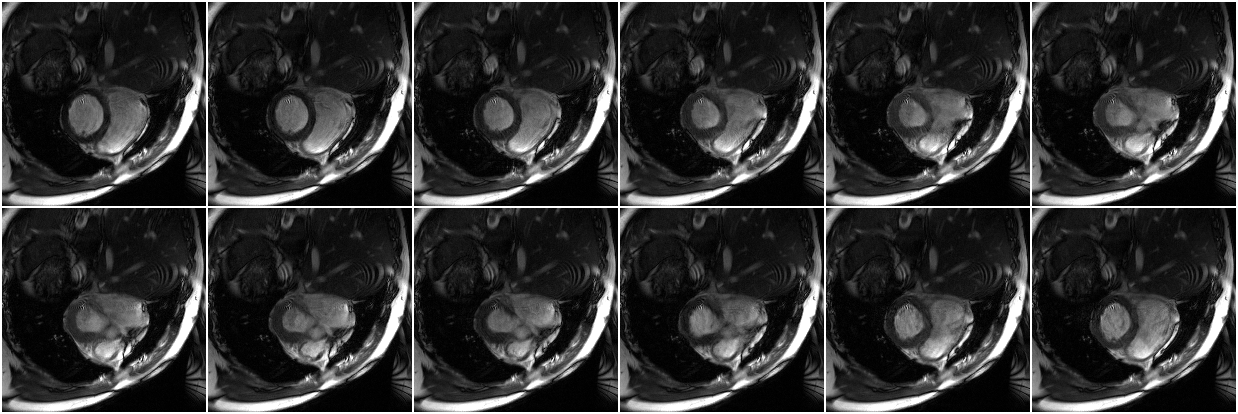
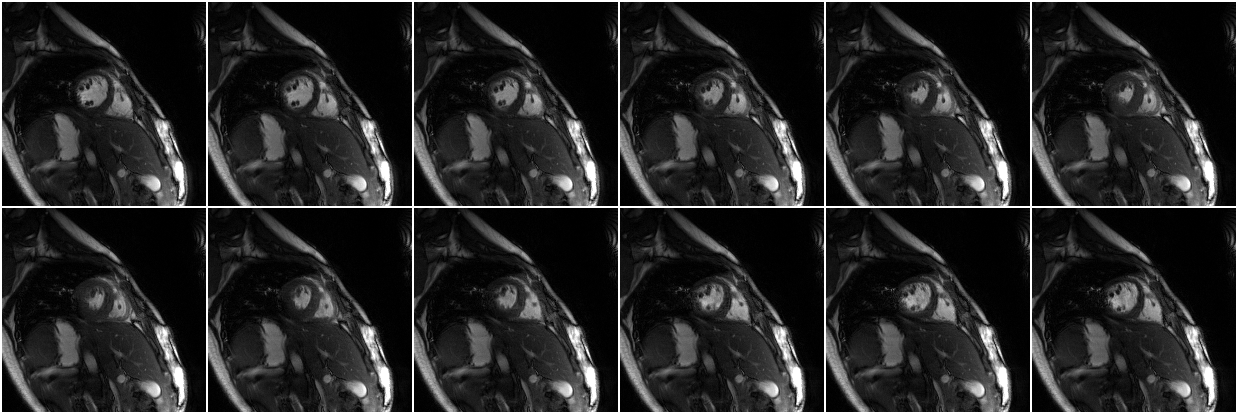
Adding nufft run and grasp run

diff --git a/main_grasp.py b/main_grasp.py
@@ -1,0 +1,180 @@
+import os
+import argparse
+import time
+import datetime
+import numpy as np
+import torch
+import h5py
+from tqdm import tqdm
+
+from torch.utils.tensorboard import SummaryWriter
+from utils import coil_combine, path_checker, visual_mag, visual_err_mag, gen_traj, NUFFT
+from scipy import io
+from CineDataset import CineDataset, CMRxReconToINRDataset
+from inr.utils import metrics_extended 
+from utils import TVLoss, coil_combine, metrics, RelL2Loss
+
+# --- Arguments for GRASP ---
+parser = argparse.ArgumentParser(description="GRASP MRI Reconstruction")
+parser.add_argument('-s', '--spokes', type=int, metavar='', required=True, help="Number of spokes per frame")
+parser.add_argument('-g', '--gpu', type=int, metavar='', required=True, help="GPU ID")
+parser.add_argument('-t', '--tv_weight', type=float, metavar='', required=False, default=0.01, help="Temporal TV penalty weight")
+parser.add_argument('-lr', '--learning_rate', type=float, metavar='', required=False, default=0.01, help="Adam learning rate")
+parser.add_argument('-i', '--iterations', type=int, metavar='', required=False, default=1000, help="Optimization iterations")
+parser.add_argument('-r', '--relL2', action='store_true', required=False)
+args = parser.parse_args()
+os.environ["CUDA_VISIBLE_DEVICES"] = str(args.gpu)
+
+params = {
+    "tv_weight": args.tv_weight,
+    "lr": args.learning_rate,
+    "iterations": args.iterations,
+    "spokes": args.spokes,
+    "relL2": args.relL2
+}
+print("GRASP Parameters:", params)
+
+# Important Constants
+GA = np.deg2rad(180 / ((1 + np.sqrt(5)) / 2))  # GoldenAngle
+device = torch.device("cuda:0" if torch.cuda.is_available() else "cpu")
+summary_epoch = 50
+spoke_num = args.spokes
+iterations = params['iterations']
+relL2_eps = 1e-4
+
+base_path = r"/synology-data/users/naamagav/CMRxRec_for_project"
+log_path = os.path.join(base_path, 'log_cmr', 'GRASP_spoke{}_{}'.format(spoke_num, str(datetime.datetime.now().strftime('%y%m%d_%H%M%S'))))
+path_checker(log_path)
+writer = SummaryWriter(log_path)
+dataset_path = os.path.join(base_path, 'ChallengeData_test', 'MultiCoil', 'Cine', 'TestSet', 'FullSample')
+cds = CineDataset(dataset_path)
+
+ds = CMRxReconToINRDataset(
+    base_dataset=cds,
+    kspace_key="kspace_full",
+    z_index=2,
+    input_order="nxnycnznt",
+    crop_square=True,
+    crop_size=204,
+    return_torch=True,
+)
+
+x = ds[1]
+# Test is on P002 in the testset 
+
+img = x['img'][:]
+smap = x['smap'][:]
+
+img = torch.as_tensor(img).to(device)
+smap = torch.as_tensor(smap).to(device)
+frames = img.shape[0]
+coil_num = img.shape[1]
+grid_size = img.shape[-1]
+spoke_length = grid_size * 2
+img_gt = coil_combine(img, smap)
+scale_factor = torch.abs(img_gt).max()
+img_gt /= scale_factor # Normalization
+
+# Generate K-Space Trajectory and Data
+ktraj = gen_traj(GA, spoke_length, frames * spoke_num).reshape(2, frames, -1).transpose(1, 0)
+dcomp = torch.abs(torch.linspace(-1, 1, spoke_length)).repeat([spoke_num, 1]).to(device)
+nufft_op = NUFFT(ktraj, dcomp, smap)
+kdata = nufft_op.forward(img_gt).reshape([frames, coil_num, spoke_num, spoke_length])
+
+# --- Build GRASP Optimization Variable ---
+# Initialize the image series as a complex tensor (optimizable parameter)
+# Starting with zeros
+# recon_img = torch.zeros((frames, 1, grid_size, grid_size), dtype=torch.complex64, device=device, requires_grad=True)
+print("Calculating Adjoint NUFFT for initialization...")
+with torch.no_grad():
+    # Get the zero-filled reconstruction to use as a starting point
+    initial_guess = nufft_op.adjoint(kdata)
+    
+    # Ensure it has the [frames, 1, H, W] shape
+    if initial_guess.dim() == 3:
+        initial_guess = initial_guess.unsqueeze(1)
+
+# Initialize the optimizable parameter with the adjoint image
+recon_img = initial_guess.clone().detach().requires_grad_(True)
+optimizer = torch.optim.Adam([recon_img], lr=params['lr'])
+DC_loss = RelL2Loss(params['relL2'], eps=relL2_eps)
+TV_loss = TVLoss()
+
+psnr = 0.0
+ssim = 0.0
+time_usage = 0.0
+best_epoch = 0
+best_intensity = None
+epoch_loop = tqdm(range(iterations), total=iterations, leave=True)
+
+for i in epoch_loop:
+    start_time = time.time()
+    optimizer.zero_grad()
+    intensity = recon_img
+
+    kdata_pred = nufft_op.forward(intensity).reshape([frames, coil_num, spoke_num, spoke_length])
+    dc_loss_val = DC_loss(kdata_pred, kdata).mean()
+
+
+    # 2. Temporal Total Variation (TV) Loss: || T(x) ||_1
+    # Absolute difference along the temporal dimension (frames)
+    tv_loss_val = (TV_loss(intensity.real) + TV_loss(intensity.imag)) / torch.abs(intensity.detach()).max()
+
+    # Total Objective
+    loss = dc_loss_val + params['tv_weight'] * tv_loss_val
+    loss.backward()
+    optimizer.step()
+
+    delta_time = time.time() - start_time
+    time_usage += delta_time
+
+    # Update Progress Bar
+    epoch_loop.set_description("[GRASP Opt] [Iter:{}/{}]".format(i + 1, iterations))
+    epoch_loop.set_postfix(total_loss=loss.item(), dc_loss=dc_loss_val.item(), tv_loss=tv_loss_val.item())
+    
+    writer.add_scalar('loss_total', loss.item(), i + 1)
+    writer.add_scalar('loss_dc', dc_loss_val.item(), i + 1)
+    writer.add_scalar('loss_tv', tv_loss_val.item(), i + 1)
+
+    # Inferring / Evaluation
+    if (i + 1) % summary_epoch == 0:
+        with torch.no_grad():
+
+            intensity_eval = recon_img.clone().detach()   
+
+            coil_img = intensity_eval * smap 
+            combined_int = coil_combine(coil_img, smap)
+            
+            # Calculate metrics
+            psnr_tmp, ssim_tmp = metrics(combined_int, img_gt)
+        
+            
+            io.savemat(log_path + '/proposed_{}.mat'.format(i+1),
+                        {'img_proposed': intensity_eval.cpu().numpy()})
+            visual_mag(intensity_eval,
+                log_path + '/proposed_{}_{}_abs_{}.png'.format(spoke_num, frames, i+1))
+            visual_err_mag(intensity_eval, img_gt, log_path + '/proposed_{}_{}_abs_err_{}.png'.format(spoke_num, frames, i+1))
+            
+            writer.add_scalar('psnr', psnr_tmp, i + 1)
+            writer.add_scalar('ssim', ssim_tmp, i + 1)
+            
+            if psnr_tmp > psnr:
+                psnr = psnr_tmp
+                ssim = ssim_tmp
+                best_intensity = intensity_eval.clone().detach()
+                best_epoch = i + 1
+
+# Summary
+print('--- Optimization Complete ---')
+print('Best PSNR: {:.4f}'.format(psnr))
+print('SSIM: {:.4f}'.format(ssim))
+print('Best Iteration: {}'.format(best_epoch))
+print('Time Consumption: {:.2f}s'.format(time_usage))
+
+if best_intensity is not None:
+    metrics_dict = metrics_extended(best_intensity, img_gt, time_usage, log_path + '/proposed_{}_{}_abs_err_metrics.txt'.format(spoke_num, frames))
+    visual_mag(best_intensity,
+    log_path + '/proposed_{}_{}_abs_{}.png'.format(spoke_num, frames, best_epoch))
+    visual_err_mag(best_intensity, img_gt, log_path + '/proposed_{}_{}_abs_err_{}.png'.format(spoke_num, frames, best_epoch))
+else:
+    print("Warning: Optimization finished without running inference/evaluation.")

diff --git a/main_nufft.py b/main_nufft.py
@@ -1,0 +1,94 @@
+import os
+import argparse
+import time
+import datetime
+import numpy as np
+import torch
+from scipy import io
+
+# Parse only the essential arguments for the naive reconstruction
+parser = argparse.ArgumentParser()
+parser.add_argument('-s', '--spokes', type=int, metavar='', required=True)
+parser.add_argument('-g', '--gpu', type=int, metavar='', required=True)
+args = parser.parse_args()
+os.environ["CUDA_VISIBLE_DEVICES"] = str(args.gpu)
+
+from utils import coil_combine, path_checker, visual_mag, visual_err_mag, gen_traj, NUFFT
+from CineDataset import CineDataset, CMRxReconToINRDataset
+from inr.utils import metrics_extended
+
+# Important Constants
+GA = np.deg2rad(180 / ((1 + np.sqrt(5)) / 2))  # GoldenAngle
+device = torch.device("cuda:0" if torch.cuda.is_available() else "cpu")
+spoke_num = args.spokes
+
+# Setup Paths
+base_path = r"/synology-data/users/naamagav/CMRxRec_for_project"
+log_path = os.path.join(base_path, 'log_cmr', 'naive_nufft_spoke{}_{}'.format(spoke_num, str(datetime.datetime.now().strftime('%y%m%d_%H%M%S'))))
+path_checker(log_path)
+
+dataset_path = os.path.join(base_path, 'ChallengeData_test', 'MultiCoil', 'Cine', 'TestSet', 'FullSample')
+cds = CineDataset(dataset_path)
+
+ds = CMRxReconToINRDataset(
+    base_dataset=cds,
+    kspace_key="kspace_full",
+    z_index=2,
+    input_order="nxnycnznt",
+    crop_square=True,
+    crop_size=204,
+    return_torch=True,
+)
+
+x = ds[1]
+# Test is on P002 in the testset 
+
+img = x['img'][:]
+smap = x['smap'][:]
+
+img = torch.as_tensor(img).to(device)
+smap = torch.as_tensor(smap).to(device)
+frames = img.shape[0]
+coil_num = img.shape[1]
+grid_size = img.shape[-1]
+spoke_length = grid_size * 2
+
+# Ground Truth & Normalization
+img_gt = coil_combine(img, smap)
+scale_factor = torch.abs(img_gt).max()
+img_gt /= scale_factor 
+
+# Generate Trajectory & NUFFT Operator
+ktraj = gen_traj(GA, spoke_length, frames * spoke_num).reshape(2, frames, -1).transpose(1, 0)
+dcomp = torch.abs(torch.linspace(-1, 1, spoke_length)).repeat([spoke_num, 1]).to(device)
+nufft_op = NUFFT(ktraj, dcomp, smap)
+
+# 1. Forward Pass (Simulate multi-coil radial k-space data)
+print("Simulating k-space data...")
+raw_kdata = nufft_op.forward(img_gt)
+
+# 2. Adjoint Pass (Naive NUFFT Reconstruction)
+print("Running naive NUFFT reconstruction...")
+start_time = time.time()
+
+recon = nufft_op.adjoint(raw_kdata)
+
+time_usage = time.time() - start_time
+print('Time Consumption: {:.2f}s'.format(time_usage))
+
+# Save output array
+io.savemat(os.path.join(log_path, 'naive_recon.mat'), {'img_naive': recon.cpu().numpy()})
+
+# Calculate Metrics & Save Visualizations
+print("Calculating metrics and saving visuals...")
+metrics_dict = metrics_extended(
+    recon, 
+    img_gt, 
+    time_usage, 
+    os.path.join(log_path, 'naive_{}_{}_abs_err_metrics.txt'.format(spoke_num, frames))
+)
+
+visual_mag(recon, os.path.join(log_path, 'naive_{}_{}_abs.png'.format(spoke_num, frames)))
+visual_err_mag(recon, img_gt, os.path.join(log_path, 'naive_{}_{}_abs_err.png'.format(spoke_num, frames)))
+
+print("Done!")

diff --git a/CineDataset.py b/CineDataset.py
@@ -287,7 +287,7 @@ class CMRxReconToINRDataset(Dataset):
 
 
 if __name__ == "__main__":
-    cds = CineDataset(r"/synology-data/users/naamagav/CMRxRec_for_project/ChallengeData/MultiCoil/Cine/TrainingSet/FullSample")
+    cds = CineDataset(r"/synology-data/users/naamagav/CMRxRec_for_project/ChallengeData_test/MultiCoil/Cine/TestSet/FullSample")
 
     ds = CMRxReconToINRDataset(
         base_dataset=cds,
@@ -299,7 +299,7 @@ if __name__ == "__main__":
         return_torch=True,
     )
 
-    x = ds[0]
+    x = ds[1]
 
     import matplotlib.pyplot as plt
     # ## plot two images

diff --git a/main.py b/main.py
@@ -73,7 +73,7 @@ ds = CMRxReconToINRDataset(
     return_torch=True,
 )
 
-x = ds[0]
+x = ds[1]
 # Test is on P002 in the testset 
 
 img = x['img'][:]